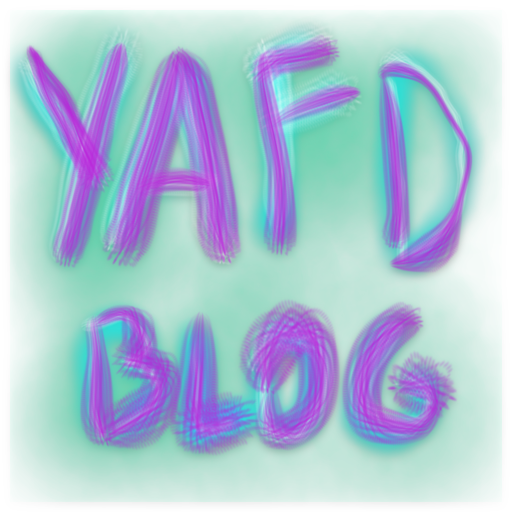
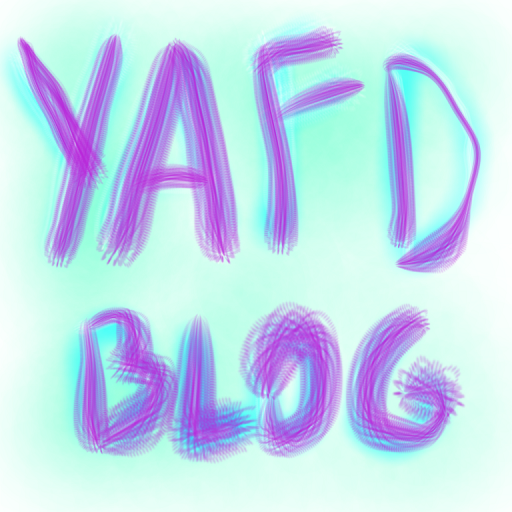
pwa support was added

diff --git a/_sass/minima/_layout.scss b/_sass/minima/_layout.scss
@@ -141,22 +141,23 @@
   float: left;
   margin-bottom: $spacing-unit / 2;
   padding-left: $spacing-unit / 2;
+  padding-right: $spacing-unit / 2;
   font-size: $small-font-size;
 }
 
 .footer-col-1 {
+  width: -webkit-calc(25% - (#{$spacing-unit} / 2));
+  width:         calc(25% - (#{$spacing-unit} / 2));
+}
+
+.footer-col-2 {
   width: -webkit-calc(35% - (#{$spacing-unit} / 2));
   width:         calc(35% - (#{$spacing-unit} / 2));
 }
 
-.footer-col-2 {
-  width: -webkit-calc(20% - (#{$spacing-unit} / 2));
-  width:         calc(20% - (#{$spacing-unit} / 2));
-}
-
 .footer-col-3 {
-  width: -webkit-calc(45% - (#{$spacing-unit} / 2));
-  width:         calc(45% - (#{$spacing-unit} / 2));
+  width: -webkit-calc(30% - (#{$spacing-unit} / 2));
+  width:         calc(30% - (#{$spacing-unit} / 2));
 }
 
 @include media-query($on-laptop) {
@@ -228,7 +229,7 @@
 
 .post-title {
   color: $brand-color;
-  text-shadow: 2px 2px 28px $text-color;
+  text-shadow: 2px 2px 28px rgba(243,243,243,0.50);
   @include relative-font-size(2.625);
   letter-spacing: -1px;
   line-height: 1;

diff --git a/sw.js b/sw.js
@@ -5,14 +5,20 @@ workbox.core.setCacheNameDetails({
     runtime: 'runtime-cache'
 });
 
+workbox.googleAnalytics.initialize();
+
 workbox.core.skipWaiting();
 workbox.core.clientsClaim();
 
+workbo.google
+
 workbox.precaching.precacheAndRoute(self.__precacheManifest);
+
+workbox.routing.setDefaultHandler(workbox.strategies.networkFirst());
 
 workbox.routing.registerRoute(
     /\.html$/,
-    new workbox.strategies.NetworkFirst()
+    new workbox.strategies.StaleWhileRevalidate()
 );
 
 workbox.routing.registerRoute(
@@ -20,9 +26,12 @@ workbox.routing.registerRoute(
     new workbox.strategies.NetworkFirst()
 );
 
-
 workbox.routing.registerRoute(
     /assets\/(img|icons)/,
     new workbox.strategies.CacheFirst()
 );
 
+workbox.routing.registerRoute(
+    /^https?:\/\/fonts\.googleapis\.com/,
+    workbox.strategies.staleWhileRevalidate()
+);

diff --git a/_sass/minima.scss b/_sass/minima.scss
@@ -10,10 +10,10 @@ $base-line-height: 1.4 !default;
 
 $spacing-unit:     30px !default;
 
-$text-color: #f5f5f5 !default;
+$text-color: #f3f3f3 !default;
 $background-color: #202025 !default;
 $background-color-hf: #151520 !default;
-$brand-color: #9f54fb !default;
+$brand-color: #c595ff !default;
 
 $grey-color: #eeeeee !default;
 $grey-color-light: lighten($grey-color, 40%) !default;

diff --git a/_sass/minima/_base.scss b/_sass/minima/_base.scss
@@ -209,18 +209,16 @@ pre {
  */
 
 .svg-icon {
-    width: 16px;
-    height: 16px;
-    display: inline-block;
+    width: 24px;
+    height: 24px;
     fill: #{$grey-color};
-    padding-right: 5px;
+    padding-right: 10px;
+    padding-left: 10px;
     vertical-align: text-top;
 }
 
 .social-media-list {
-
     padding-top: 5px;
-
 }
 
 
